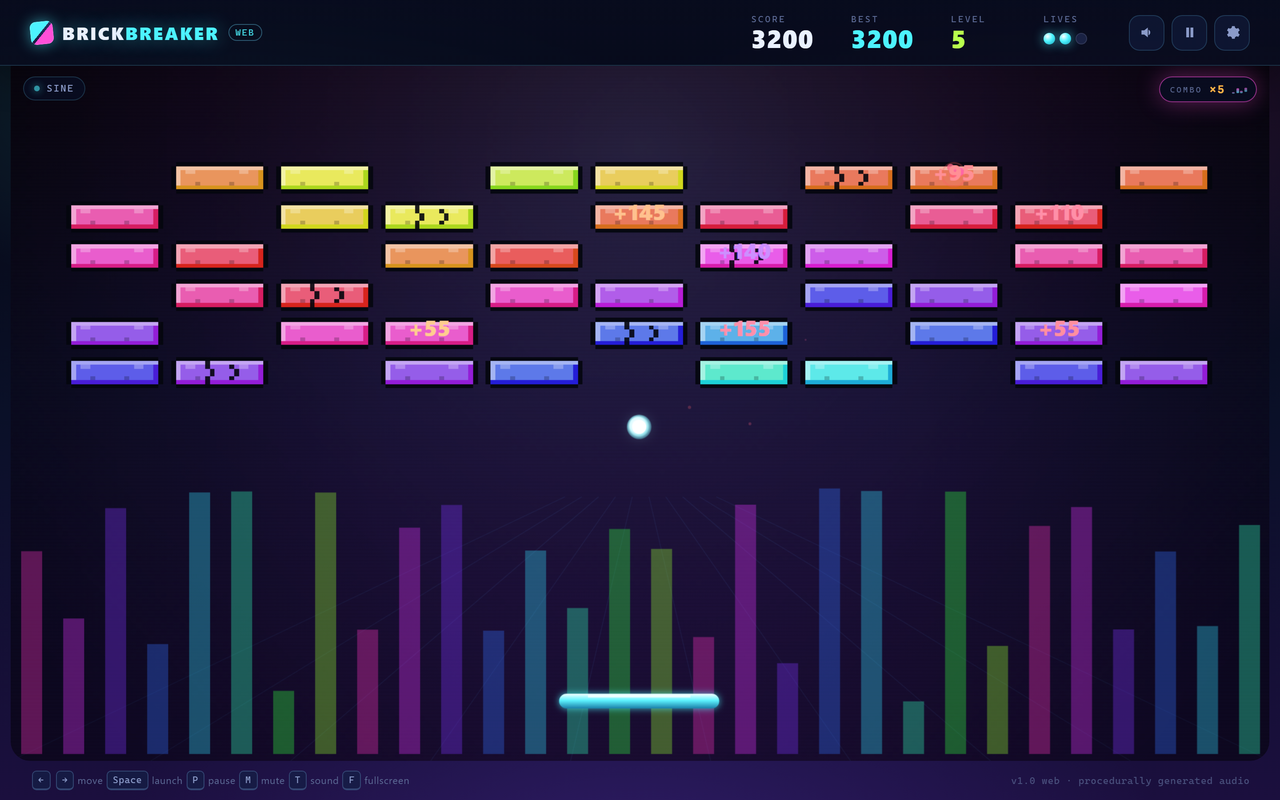
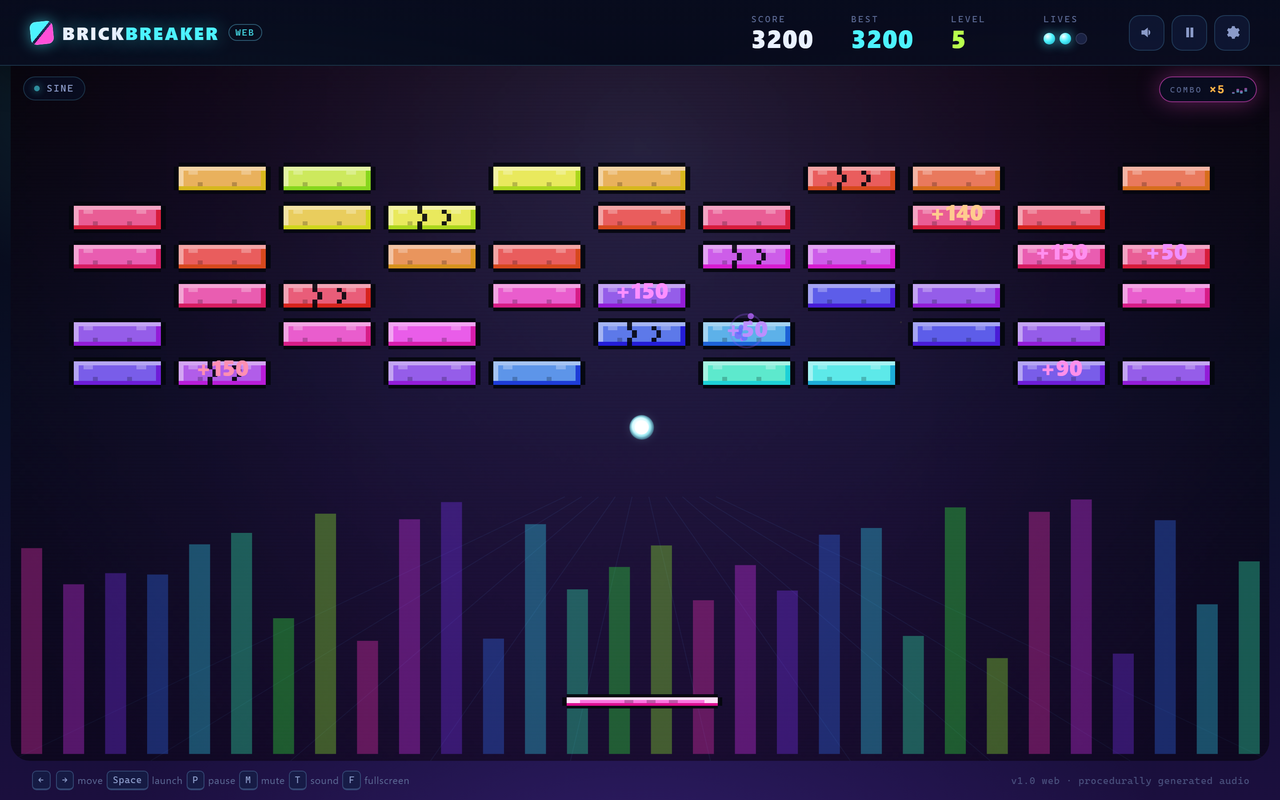
Web: sync paddle art with pixel bricks
The paddle was the last smooth-gradient + shadowBlur object in the playfield
while the wall had moved to low-fi pixel sprites. It now uses the same language:

- 36x5 pixel sprite (dark outline/clipped corners, chunky top highlight and
  bottom shade, end caps, grip dither) drawn with imageSmoothingEnabled=false.
- Tinted by the same combo heat as the bricks: cyan at combo x1, warming towards
  pink/amber at high combos; brightens on the beat.
- Separate flash variant (white edge pixels) while the ball-hit flash timer runs.
- Sprite cache keyed by quantised hue/lightness/flash; no gradients or
  shadowBlur on the paddle anymore.

35 core tests pass; touch drag regression passes; screenshots refreshed. This
also brings the paddle into the same pixel-CRT aesthetic as the bricks.

diff --git a/web/js/50-renderer.js b/web/js/50-renderer.js
@@ -72,6 +72,7 @@
     this._bgHeight = 0;
     this._glowSprites = {};
     this._brickSprites = {};
+    this._paddleSprites = {};
     this._rowHueStrings = null;
     this._eqHue = null;
 
@@ -498,32 +499,86 @@
   };
 
   /* ---------------------------------------------------------------------
-   * Paddle / ball / effects
+   * Paddle: same low-fi pixel language as the bricks (36x5 sprite, nearest
+   * neighbour), tinted by the same combo heat so the player's board feels part
+   * of the wall instead of a smooth web widget.
    * ------------------------------------------------------------------- */
+  var PADDLE_SPRITE_W = 36;
+  var PADDLE_SPRITE_H = 5;
+
+  Renderer.prototype._paddleSprite = function (hue, lightness, flash) {
+    var hueBucket = Math.round((((hue % 360) + 360) % 360) / 12) * 12 % 360;
+    var lightBucket = Math.round(lightness / 6) * 6;
+    var key = hueBucket + ':' + lightBucket + ':' + (flash ? 'f' : 'n');
+    var cached = this._paddleSprites[key];
+    if (cached) return cached;
+
+    var W = PADDLE_SPRITE_W;
+    var H = PADDLE_SPRITE_H;
+    var canvas = document.createElement('canvas');
+    canvas.width = W;
+    canvas.height = H;
+    var g = canvas.getContext('2d');
+    var body = hsl(hueBucket, 92, Math.min(82, lightBucket));
+    var bright = hsl(hueBucket, 100, Math.min(94, lightBucket + 22));
+    var dark = hsl((hueBucket + 10) % 360, 88, Math.max(24, lightBucket - 26));
+    var outline = 'rgba(4, 6, 14, 0.95)';
+
+    g.fillStyle = outline;
+    g.fillRect(0, 0, W, H);
+    g.clearRect(0, 0, 1, 1);
+    g.clearRect(W - 1, 0, 1, 1);
+    g.clearRect(0, H - 1, 1, 1);
+    g.clearRect(W - 1, H - 1, 1, 1);
+
+    g.fillStyle = body;
+    g.fillRect(1, 1, W - 2, H - 2);
+    g.fillStyle = bright;
+    g.fillRect(1, 1, W - 2, 1);
+    g.fillRect(1, 1, 3, H - 2);
+    g.fillRect(W - 4, 1, 3, H - 2);
+    g.fillStyle = dark;
+    g.fillRect(1, H - 2, W - 2, 1);
+
+    // tiny grip dither in the middle of the board
+    g.fillStyle = 'rgba(0, 0, 0, 0.24)';
+    g.fillRect(14, 2, 2, 1);
+    g.fillRect(19, 2, 2, 1);
+    g.fillRect(24, 2, 2, 1);
+
+    if (flash) {
+      g.fillStyle = 'rgba(255, 255, 255, 0.9)';
+      g.fillRect(1, 1, W - 2, 1);
+      g.fillRect(1, H - 2, W - 2, 1);
+      g.fillRect(1, 2, 2, H - 4);
+      g.fillRect(W - 3, 2, 2, H - 4);
+    }
+
+    this._paddleSprites[key] = canvas;
+    return canvas;
+  };
+
   Renderer.prototype._drawPaddle = function (session) {
     var ctx = this.ctx;
     var paddle = session.paddle;
     if (!paddle) return;
-    var x = paddle.left;
-    var y = paddle.top;
-    var w = paddle.width;
-    var h = paddle.height;
-    var radius = h * 0.5;
+
+    var multiplier = this._comboMultiplier(session);
+    var heat = clamp((multiplier - 1) / Math.max(1, config.COMBO_MAX - 1), 0, 1);
+    var hue = 190 + heat * 120 + this.comboGlow * 28;
+    var lightness = 60 + heat * 6 + this.beat * (3 + heat * 6);
+    var flash = paddle.flash > 0;
+    var sprite = this._paddleSprite(hue, lightness + (flash ? 16 : 0), flash);
 
     ctx.save();
-    ctx.shadowColor = 'rgba(77, 243, 255, 0.75)';
-    ctx.shadowBlur = paddle.flash > 0 ? 26 : 12;
-    var fill = ctx.createLinearGradient(x, y, x, y + h);
-    fill.addColorStop(0, '#f2ffff');
-    fill.addColorStop(0.45, '#5df3ff');
-    fill.addColorStop(1, '#1b7fa8');
-    ctx.fillStyle = fill;
-    roundRectPath(ctx, x, y, w, h, radius);
-    ctx.fill();
-    ctx.shadowBlur = 0;
-    ctx.globalAlpha = 0.8;
-    ctx.fillStyle = 'rgba(255,255,255,0.85)';
-    ctx.fillRect(x + w * 0.18, y + 1.2, w * 0.64, Math.max(1, h * 0.18));
+    ctx.imageSmoothingEnabled = false;
+    ctx.drawImage(
+      sprite,
+      Math.round(paddle.left),
+      Math.round(paddle.top),
+      Math.round(paddle.width),
+      Math.round(paddle.height)
+    );
     ctx.restore();
   };
 

diff --git a/web/README.zh-CN.md b/web/README.zh-CN.md
@@ -91,6 +91,8 @@ python -m http.server 8080
 - 静态背景（渐变、透视网格、扫描线、暗角）预先画到离屏 canvas，每帧只 blit 一次；
 - 砖块改成**刻意低清的像素 sprite**：每块砖是 20×8 的像素图（描边、粗高光、抖动点、裂纹像素），
   用最近邻放大。既比每块砖画圆角路径/渐变便宜，又有街机 CRT 的粗糙感，不再是“过于精致的网页风”；
+- 挡板也换成同一套像素语言（36×5 sprite，描边/粗高光/防滑纹），并跟随连击热度变色，
+  你控制的板子终于和砖墙是一个画风；
 - 连击光晕用缓存 sprite，底部均衡器改用纯矩形；
 - canvas backing store 按 `devicePixelRatio` 设置，并带**自适应分辨率**：帧率掉下来时只降画质、不降物理频率，机器有余量时再升回去；
 - CSS 也做了减负：HUD/芯片不再对动画 canvas 做 `backdrop-filter`，环境背景改为静态。

diff --git a/web/ARCHITECTURE.md b/web/ARCHITECTURE.md
@@ -142,8 +142,10 @@ effect honours the DJ-booth toggle and `prefers-reduced-motion`.
   frame. Bricks are **20×8 pixel-art sprites** (outline, chunky bevel, dither
   marks, crack pixels) stretched with `imageSmoothingEnabled = false`; sprite
   variants are cached per quantised hue/lightness bucket, so the combo colour
-  cycle stays cheap while the wall keeps a deliberately low-fi arcade look.
-  This is what keeps Canvas2D fast on high-DPR panels.
+  cycle stays cheap while the wall keeps a deliberately low-fi arcade look. The
+  paddle reuses the same approach (36×5 sprite, nearest-neighbour, tinted by the
+  combo heat) so the controlled object matches the wall. This is what keeps
+  Canvas2D fast on high-DPR panels.
 - `App.resize()` uses a `ResizeObserver` on the stage plus window/orientation/
   fullscreen listeners; the session re-derives the room/grid from the new canvas
   size (same formulas as the desktop `FieldLayout.compute`).

diff --git a/CHANGELOG.md b/CHANGELOG.md
@@ -49,6 +49,11 @@ Version numbers before 1.0.0 are retrospective labels for the dated milestones.
   inside the resize call so a just-cleared canvas is never presented blank. The
   brick sprite cache is no longer flushed mid-run either. Verified under
   DevTools CPU throttling: 1–2 monotonic quality changes and no oscillation.
+- Pixel-art paddle synced to the brick style: the last smooth-gradient object in
+  the playfield now uses a 36×5 nearest-neighbour sprite (outline, chunky bevel,
+  grip dither) tinted by the same combo heat as the wall, including a flash
+  variant when the ball hits it. Removes another `shadowBlur`/gradient from the
+  hot path.
 - Web test tooling with no npm dependency: 35 `node:test` simulation tests
   (`web/tests/core.test.mjs`) plus a DevTools-Protocol browser checker
   (`web/tests/browser-check.mjs`) for layout/DPR/overflow/console-error checks,

diff --git a/web/README.md b/web/README.md
@@ -113,6 +113,9 @@ renderer is tuned so this stays smooth even on high-DPI laptops:
   nearest-neighbour filtering. That is faster than drawing rounded paths and
   gradients per brick, and gives the wall an arcade-CRT feel instead of a glossy
   web look;
+- the paddle uses the same pixel language (36×5 sprite with outline/bevel/grip
+  dither) and is tinted by the same combo heat, so the board you control feels
+  part of the wall rather than a smooth web widget;
 - the combo glow is a cached sprite, and the equalizer bars are plain rects;
 - the canvas backing store is sized from `devicePixelRatio`, and **adaptive
   resolution** lowers that scale when the frame rate drops (it raises it again
